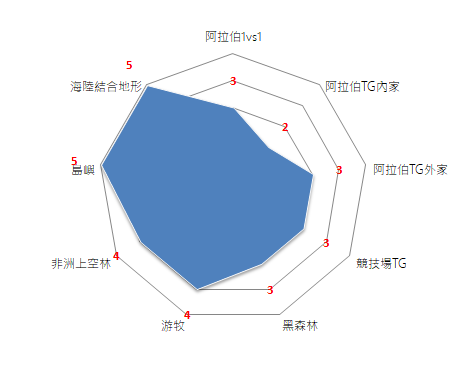
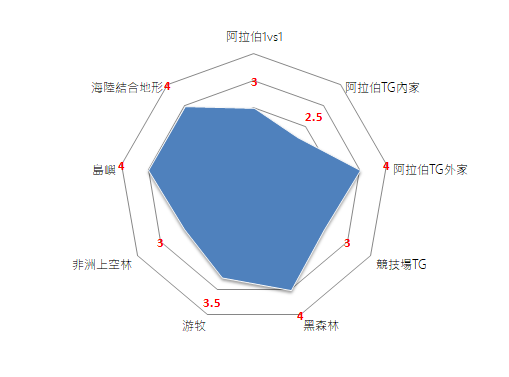
GitBook: [master] 4 pages and 4 assets modified

diff --git a/wen-ming/untitled-29.md b/wen-ming/untitled-29.md
@@ -1,5 +1,5 @@
 ---
-description: "(3.5) \U0001F315\U0001F315\U0001F315\U0001F317"
+description: "(3.4) \U0001F315\U0001F315\U0001F315\U0001F317"
 ---
 
 # 薩拉森 Saracens
@@ -7,7 +7,7 @@ description: "(3.5) \U0001F315\U0001F315\U0001F315\U0001F317"
 * **勝率\(排名\)：**1v1 49.47%\(17\)。TG 50.10%\(14\)。
 * **新手推薦程度**
 
-普通。
+特殊文明，不推薦。
 
 * **文明加成與科技樹**
 
@@ -15,11 +15,7 @@ description: "(3.5) \U0001F315\U0001F315\U0001F315\U0001F317"
 
 * **火山評分**
 
-不列顛經濟好、軍事強，弓兵隨時代加射程，對遠距單位來說，射程決定了很多操作空間，加上射箭場效率增加20%，弓兵線非常強，但有些戰局不列顛會像維京一樣龜在家裡，考驗防守能力，不一定適合新手。不列顛其實也可以肉馬開局，殺羊快讓升級早、食物多，馬也只少了血統，其他科技全滿，馬還不錯。
+![](../.gitbook/assets/image%20%2812%29.png)
 
-不列顛我認為是阿拉伯團戰外家第一弓國，殺羊快可以更容易20p 21p升級封建2BA，或者黑跳城，射程遠、弓兵出的快\(團隊加成\)，讓一個隊伍非常需要不列顛同盟，這些優勢完全掩蓋掉沒有拇指環的缺陷。不列顛的射程優勢從城堡時代開始，所以就算用市集買賣都應該快點到城堡，考驗經濟調配能力，頂尖選手可以20分到城堡。
 
-雖然射程遠在封閉圖好像有用，但是面對重投不會真的就不怕，弓兵被丟到死一整片，反觀弓兵要一直控制去點重投，所以不列顛在封閉圖我覺得只能算普通，但是他的金冠戰狼嚎在這種時候就很有用。
-
-海圖我很糾結，不列顛的船的科技只少了重型火砲船，海不差，吃羊讓升級稍微快一點在海圖有一點點優勢，雖然海圖可以單TC打到底，但是TC便宜更容易開來充實經濟，所以我給4分。
 

diff --git a/wen-ming/untitled-30.md b/wen-ming/untitled-30.md
@@ -15,7 +15,7 @@ description: "(4.2) \U0001F315\U0001F315\U0001F315\U0001F315"
 
 * **火山評分**
 
-![](../.gitbook/assets/image%20%2813%29.png)
+![](../.gitbook/assets/image%20%2814%29.png)
 
 波斯是奇妙的文明，TC工作效率高，表示村民比對手多，看起來經濟很好，科技樹也不差，還有馬打弓兵+2攻擊的團隊加成，但這些都沒有反映在單挑勝率和頂尖選手的評價上，我不理解原因。雖然這樣，我更偏向波斯是普遍被低估，在阿拉伯還是給很高的分數，比較可能的困擾是會發生村民生得太快，資源花得多，影響到出兵的資源，這個時候可以考慮先不要蓋那麼多TC，波斯2TC甚至1TC經濟都很好。
 

diff --git a/wen-ming/japanese.md b/wen-ming/japanese.md
@@ -15,7 +15,7 @@ description: "(3.6) \U0001F315\U0001F315\U0001F315\U0001F317"
 
 * **火山評分**
 
-![](../.gitbook/assets/image%20%2812%29.png)
+![](../.gitbook/assets/image%20%2813%29.png)
 
 日本的步兵從封建時代開始攻速快33%，所以阿拉伯單挑很常出現裝甲開局，詳情請洽詢YanShiba秘傳日本19P裝甲流程，但是裝甲到一定程度以上效果不會這麼好，反而經濟很差，在阿拉伯團戰外家只是一個堪用文明。
 

diff --git a/wen-ming/untitled-31.md b/wen-ming/untitled-31.md
@@ -15,7 +15,7 @@ description: "(3.5) \U0001F315\U0001F315\U0001F315\U0001F317"
 
 * **火山評分**
 
-![](../.gitbook/assets/image%20%2814%29.png)
+![](../.gitbook/assets/image%20%2815%29.png)
 
 蒙古是個大前期和大後期強大的文明，具體優勢圍繞在「快」，但是不持久，而且需要一直控制，天花板也有限，不適合新手入門。
 
